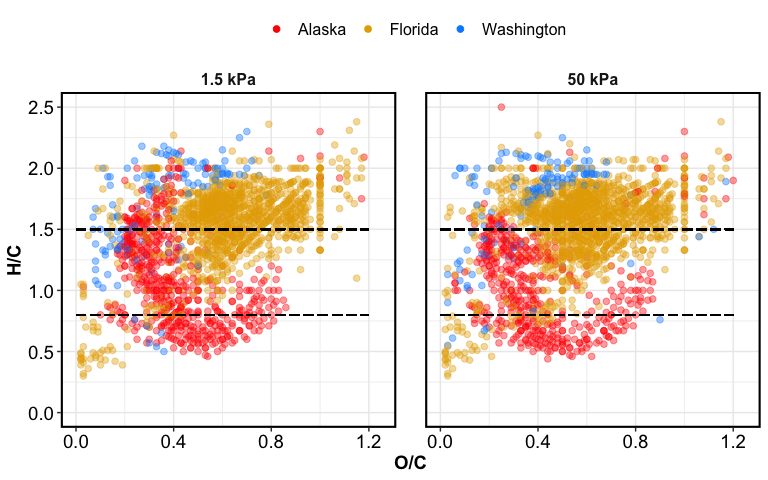
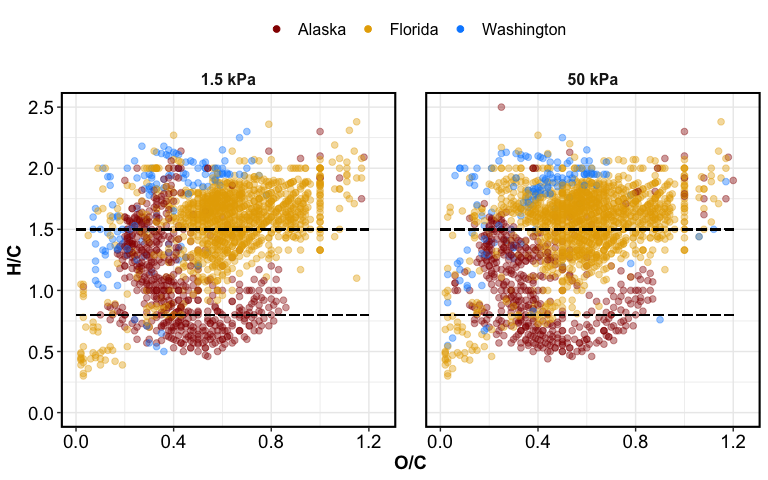
updated site colors

diff --git a/8d-fticr_markdown.md b/8d-fticr_markdown.md
@@ -15,6 +15,15 @@ treatments == viridis
 | field moist | \#35b779ff | green  |
 | drought     | \#fde725ff | yellow |
 | flood       | \#443a83ff | blue   |
+| baseline    | \#30688E   | blue   |
+
+sites
+
+|            |          |        |
+| ---------- | -------- | ------ |
+| Alaska     | \#950000 | red    |
+| Florida    | \#e6ab00 | yellow |
+| Washington | \#008cff | blue   |
 
 # FTICR domains
 
@@ -70,6 +79,10 @@ tannins that contain aromatic groups
 
 ![aromatic
 peaks](images/shannon-1.png)
+
+# unique peaks per site
+
+![](images/markdown-fticr/unique_site-1.png)<!-- -->
 
 # FTICR Pores – tables
 
@@ -450,10 +463,6 @@ gained
 | field moist          | 1.92 ± 0.01 | 1.93 ± 0 \* | 1.94 ± 0 \* |
 | flood                | 1.96 ± 0 \* | 1.95 ± 0 \* | 1.95 ± 0 \* |
 | time zero saturation | 1.95 ± 0    | 1.96 ± 0    | 1.95 ± 0    |
-
-# unique peaks per site
-
-![](images/markdown-fticr/unique_site-1.png)<!-- -->
 
 # testing color palettes
 
